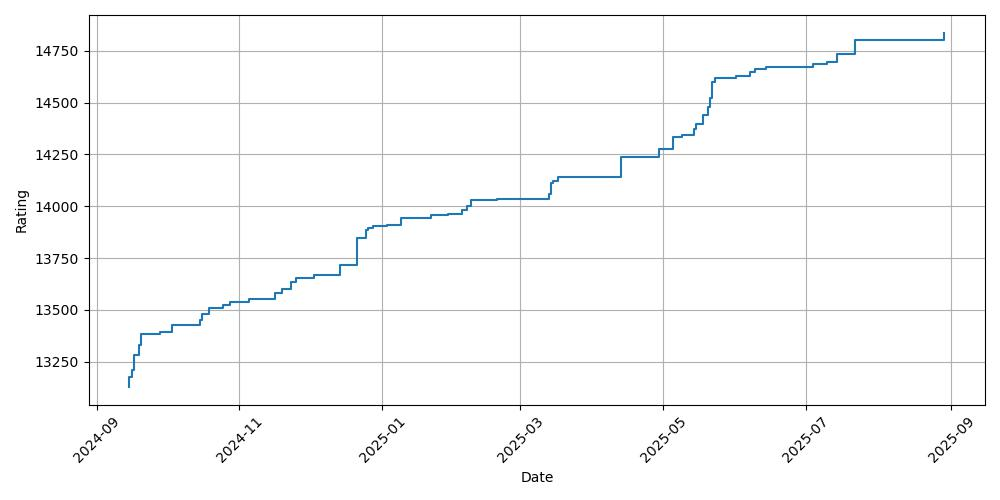
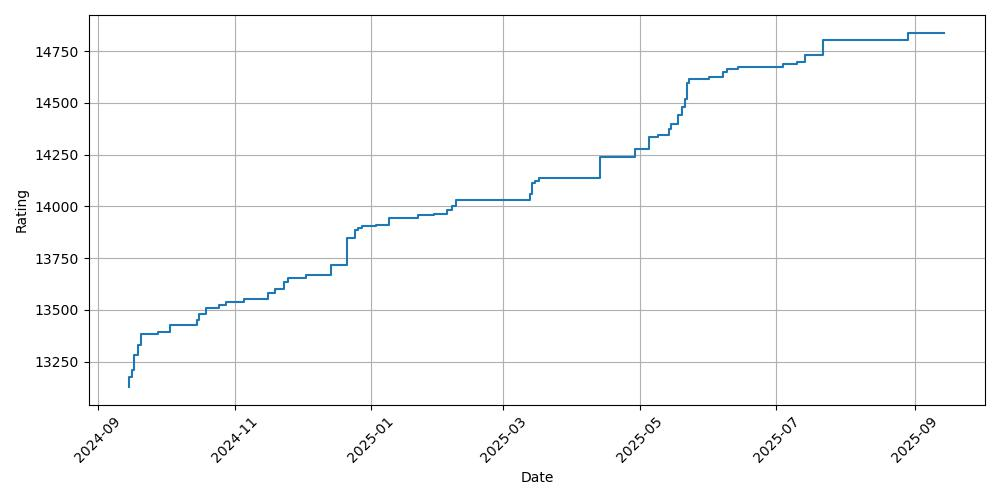
Update MUG and about page

diff --git a/content/post/mug/index.md b/content/post/mug/index.md
@@ -28,13 +28,13 @@ categories:
 
 **请注意：此成绩非官方成绩，与 SEGA 没有任何关系！**
 
-*由于 DXRating 服务器出现问题，无法生成 Best 50，本部分暂时移除。Rating Graph 仍然正常更新。*
+![](scoreb50.jpg)
 
 ![](rating.jpg)
 
 ### 舞萌 DX / Rating Graph
 
-请[点击这里](https://b50.mpas.top/1397784681)直接在线查看最新的数据（感谢 [MeowKJ](https://github.com/MeowKJ/maimai-rating-web) 的开发！）。
+请 **[点击这里](https://b50.mpas.top/1397784681)** 直接在线查看最新的数据（感谢 [MeowKJ](https://github.com/MeowKJ/maimai-rating-web) 的开发！）。
 
 ![](realrating.jpg)
 
